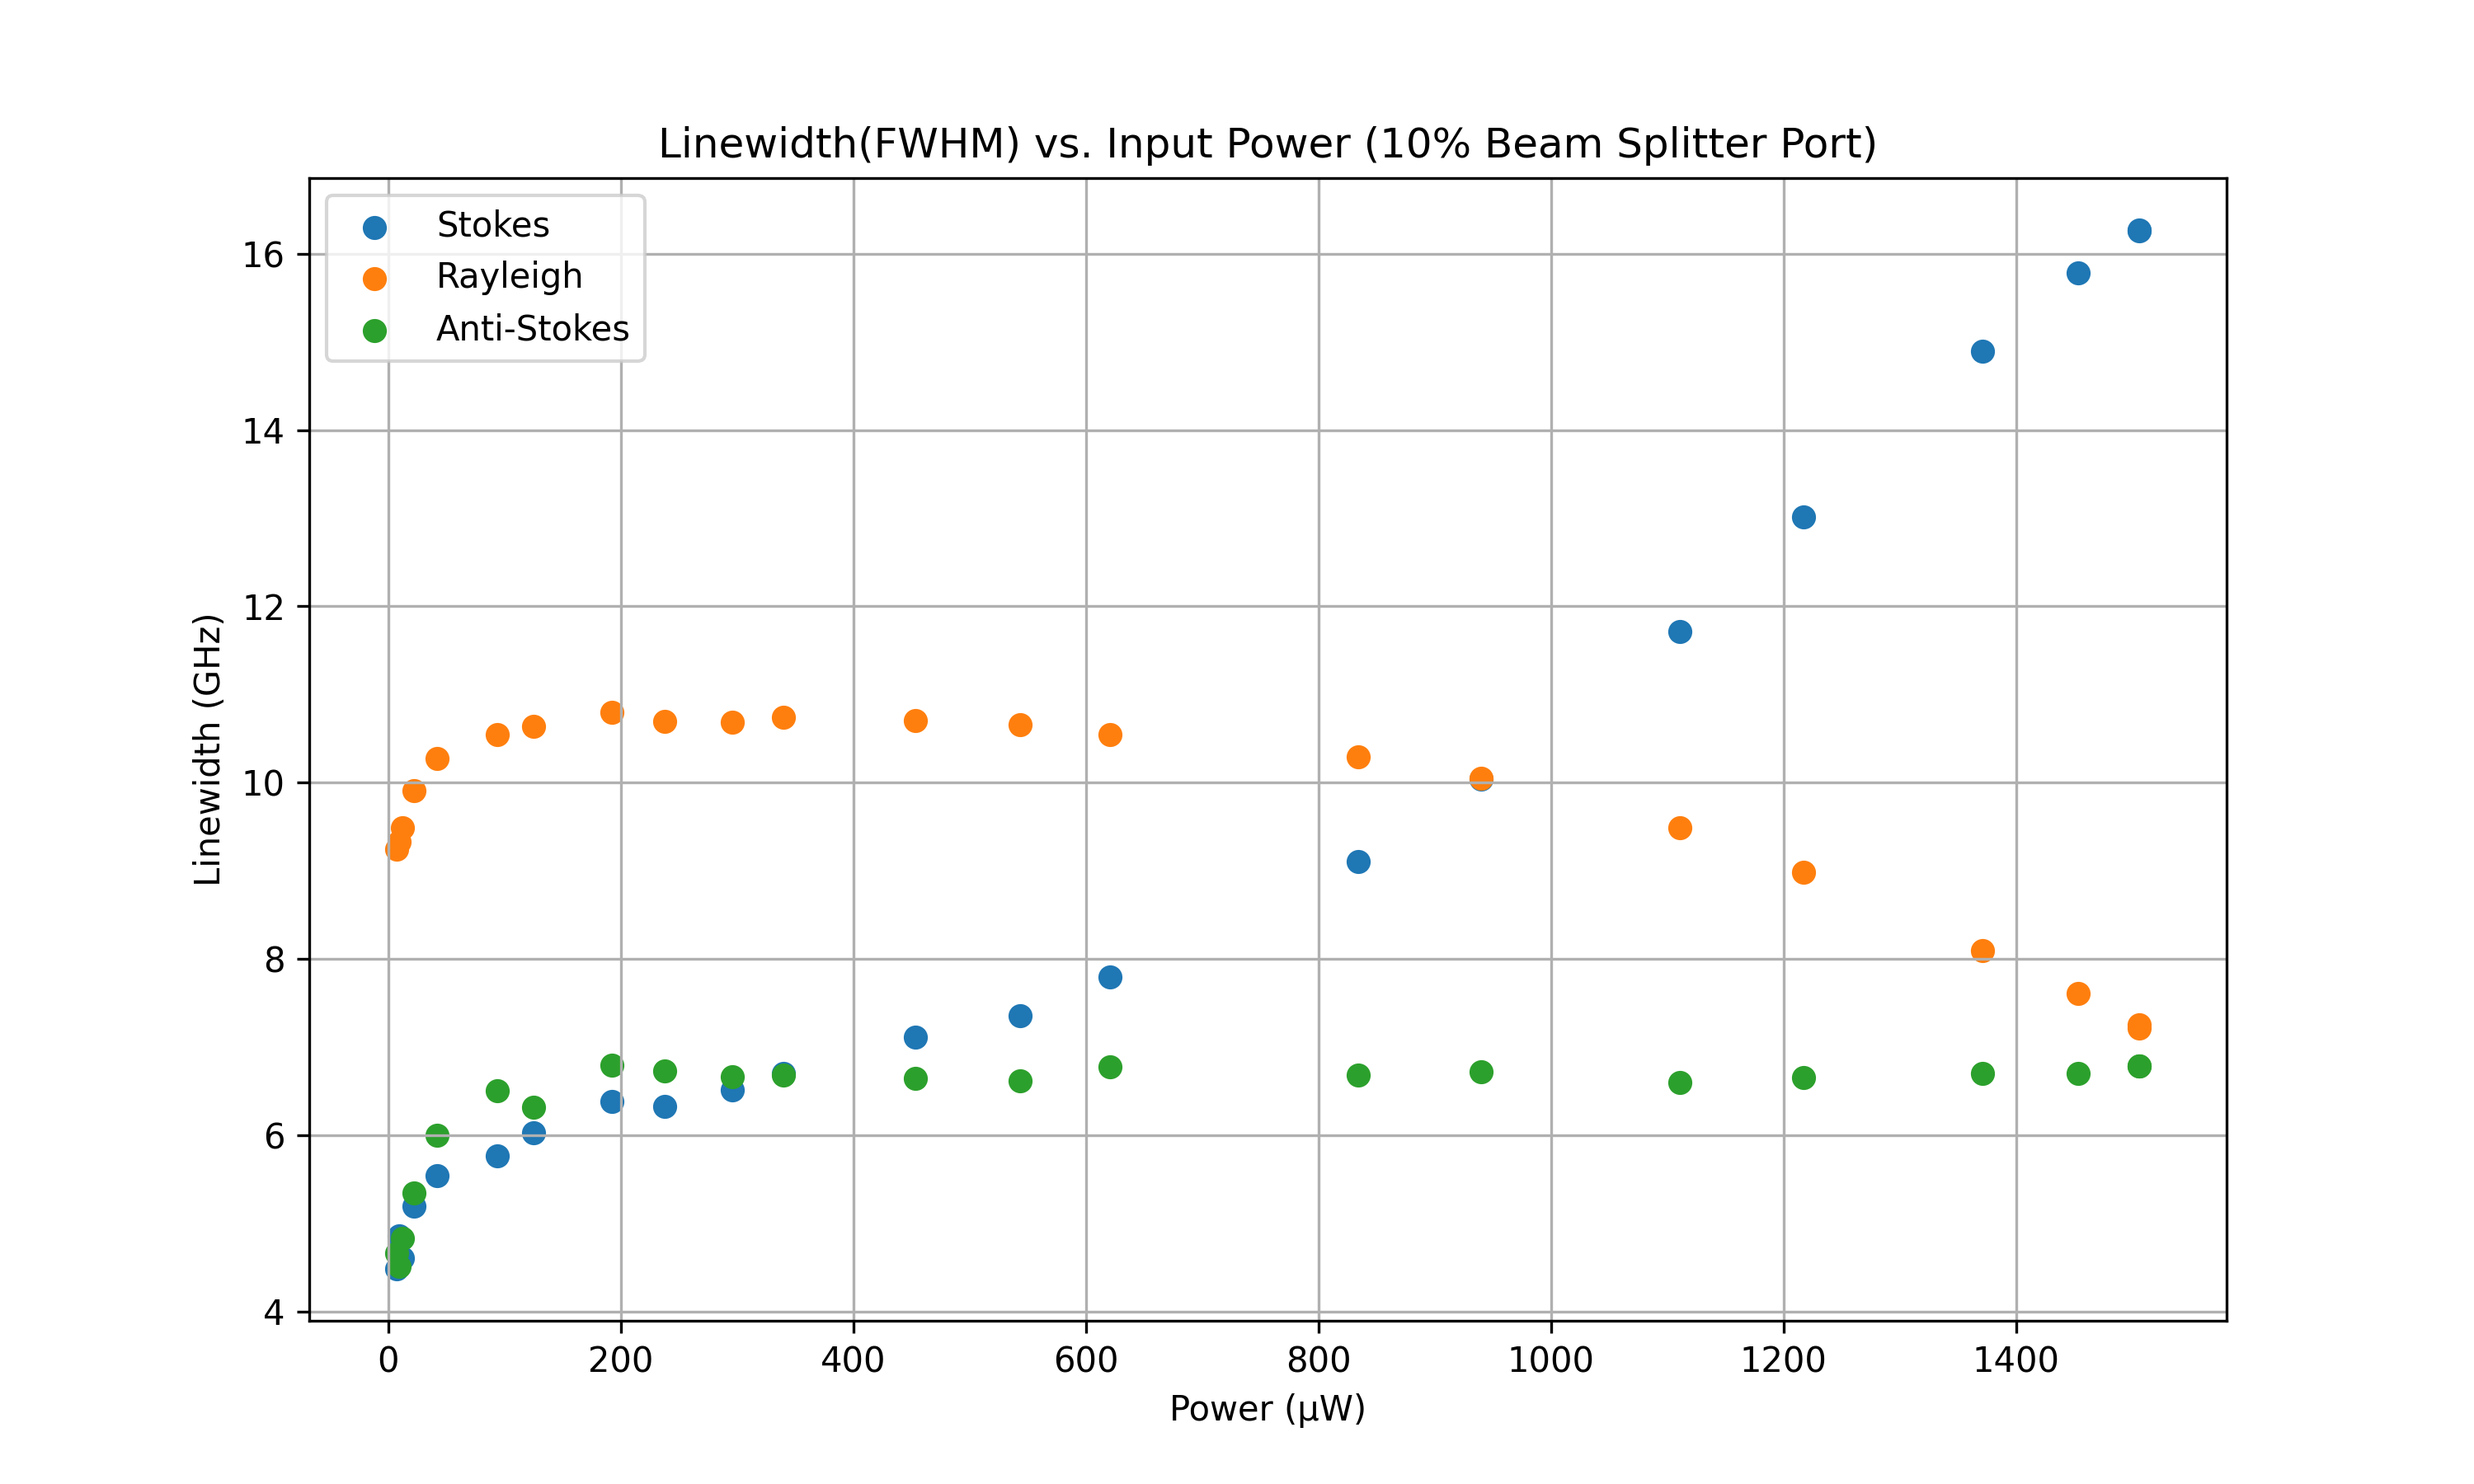
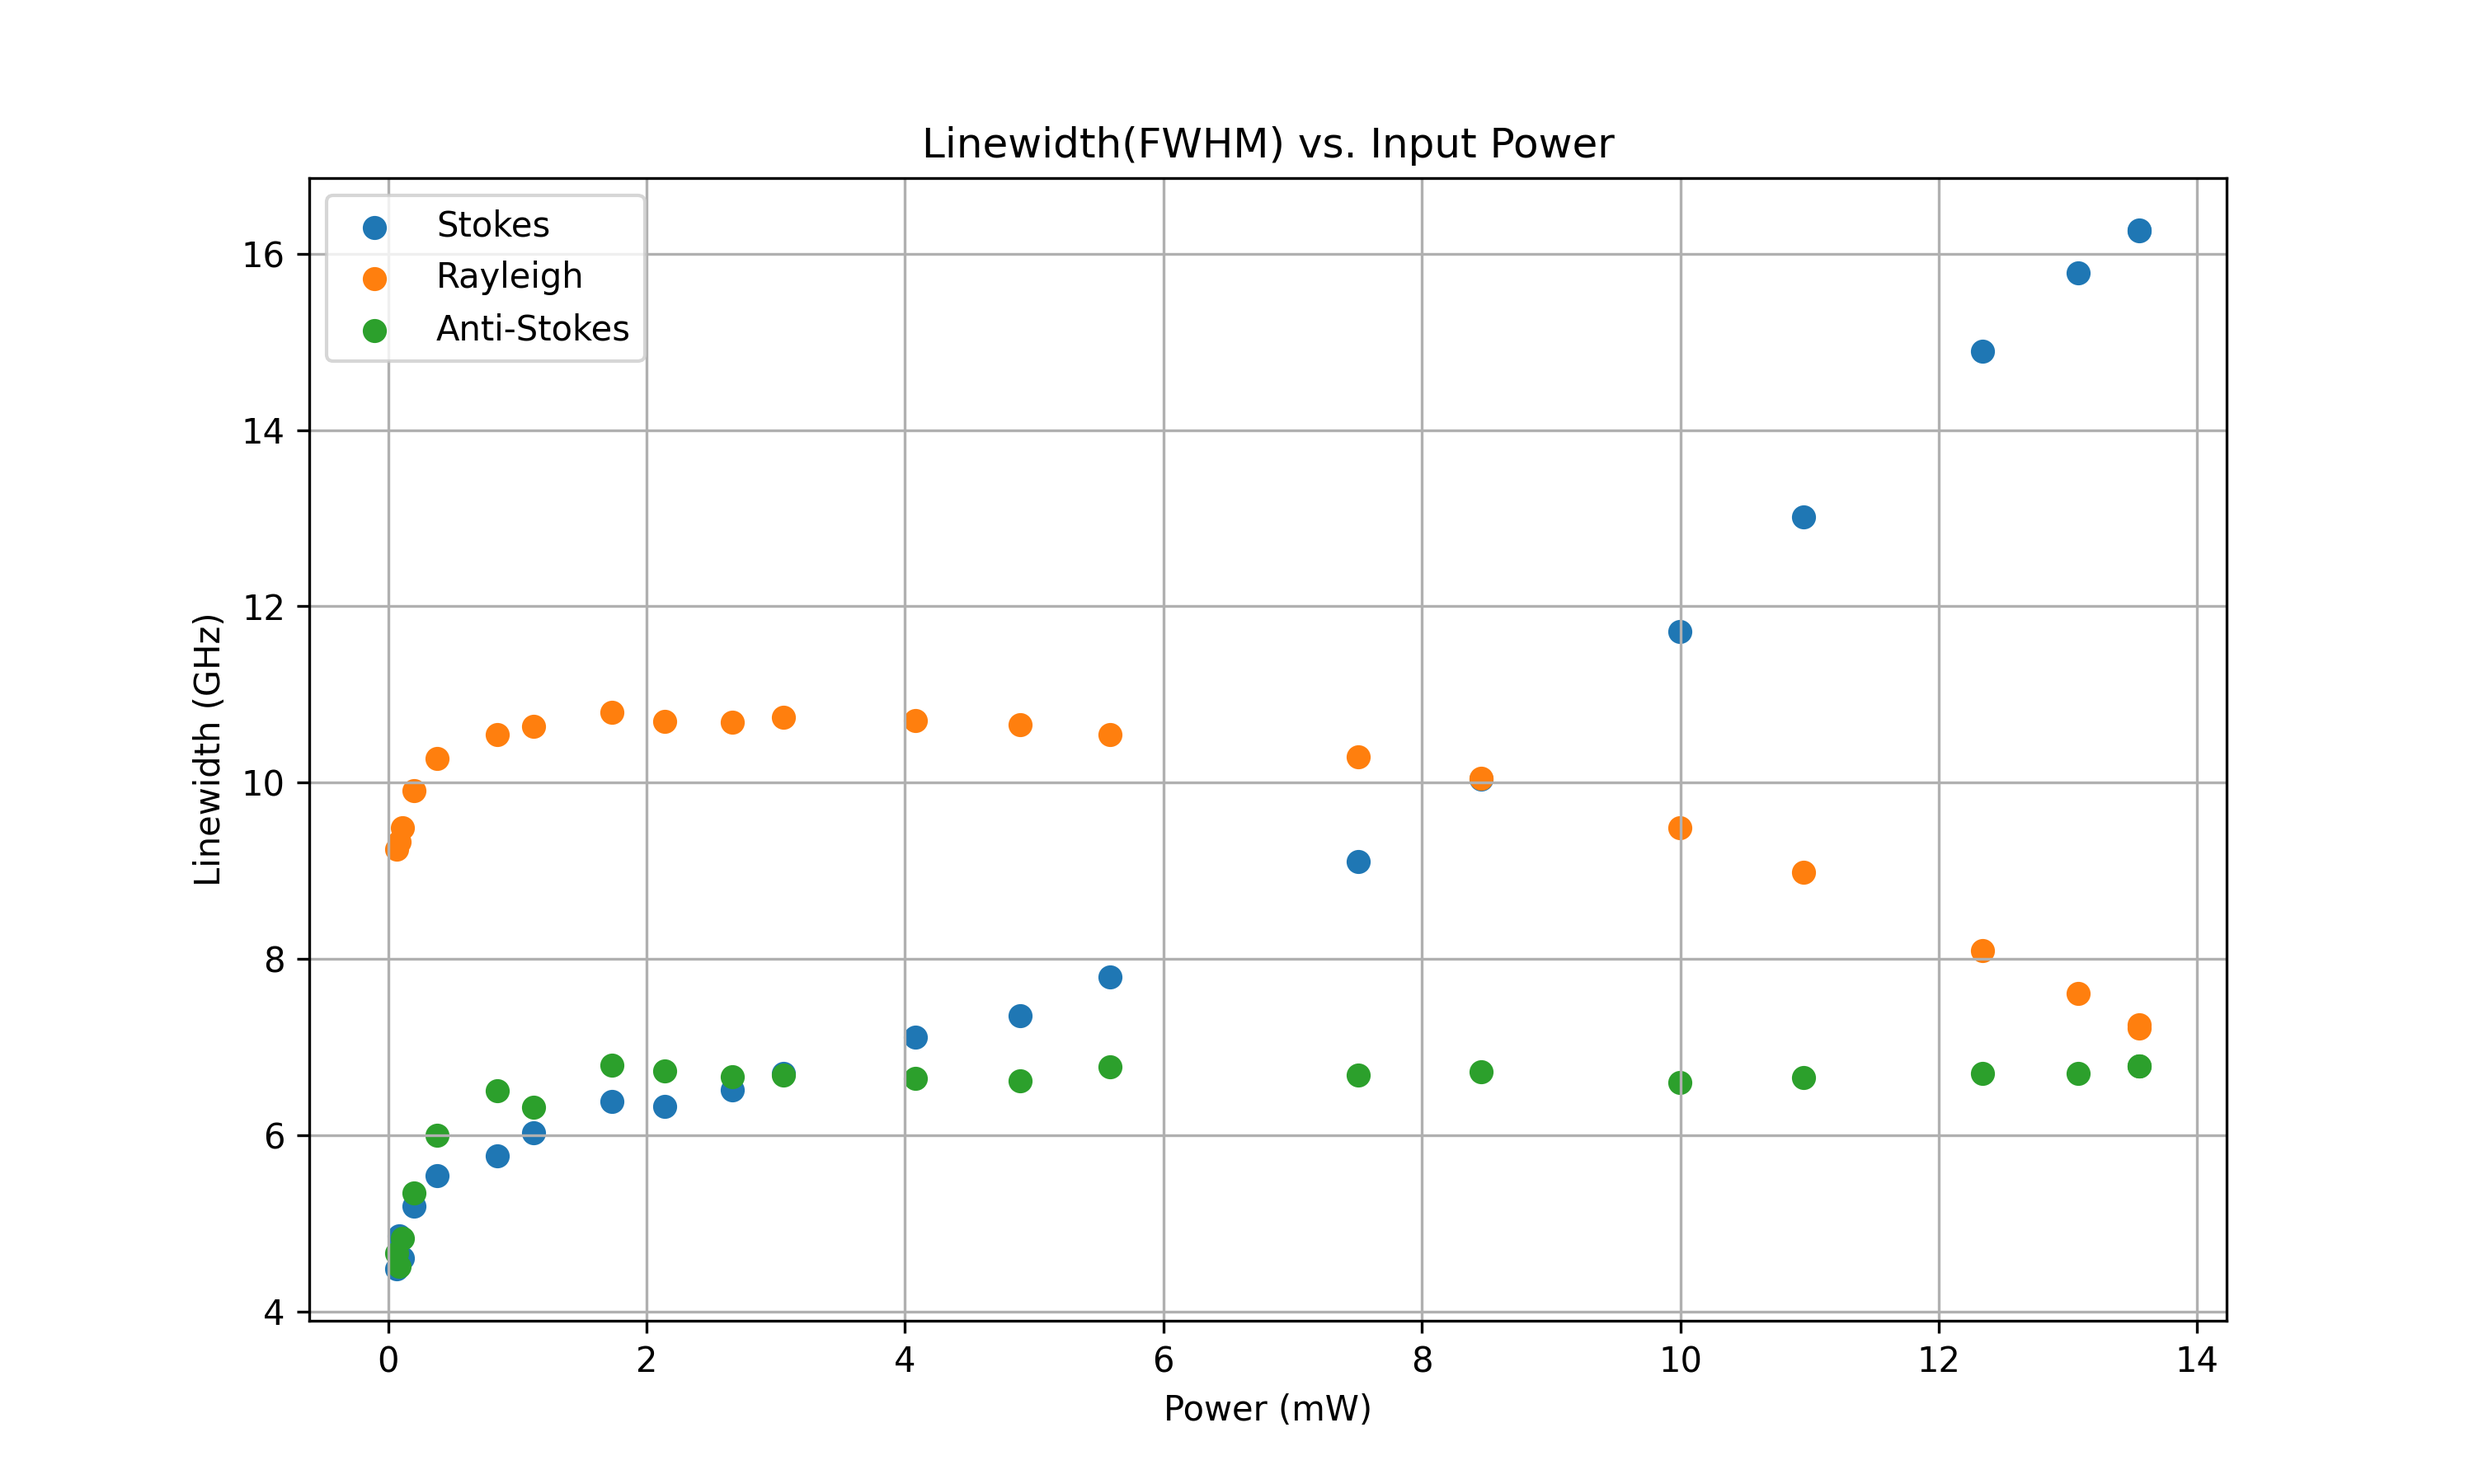
Adding another graph

diff --git a/plotPeaks.py b/plotPeaks.py
@@ -601,16 +601,17 @@ def create_linewidth_session_1():
             if col in df_filtered.columns:
                 # Convert y-axis data from Hz to MHz by dividing by 1e6.
                 y_data_mhz = 2*df_filtered[col] / 1e9 # Factor of 2 to convert HWHM to FWHM (linewidth)
-                plt.scatter(x_data, y_data_mhz, label=label)
+                x_data_mW = x_data*9/1000 # Convert to mW
+                plt.scatter(x_data_mW, y_data_mhz, label=label)
             else:
                 print(f"Warning: Column '{col}' not found in the file. Skipping.")
 
         # --- 3. Style the Plot ---
 
         # Add labels to the axes and a title to the plot for clarity.
-        plt.xlabel('Power (μW)')
+        plt.xlabel('Power (mW)')
         plt.ylabel('Linewidth (GHz)')
-        plt.title('Linewidth(FWHM) vs. Input Power (10% Beam Splitter Port)')
+        plt.title('Linewidth(FWHM) vs. Input Power')
         
         # Add a legend to distinguish between the different peaks.
         plt.legend()
